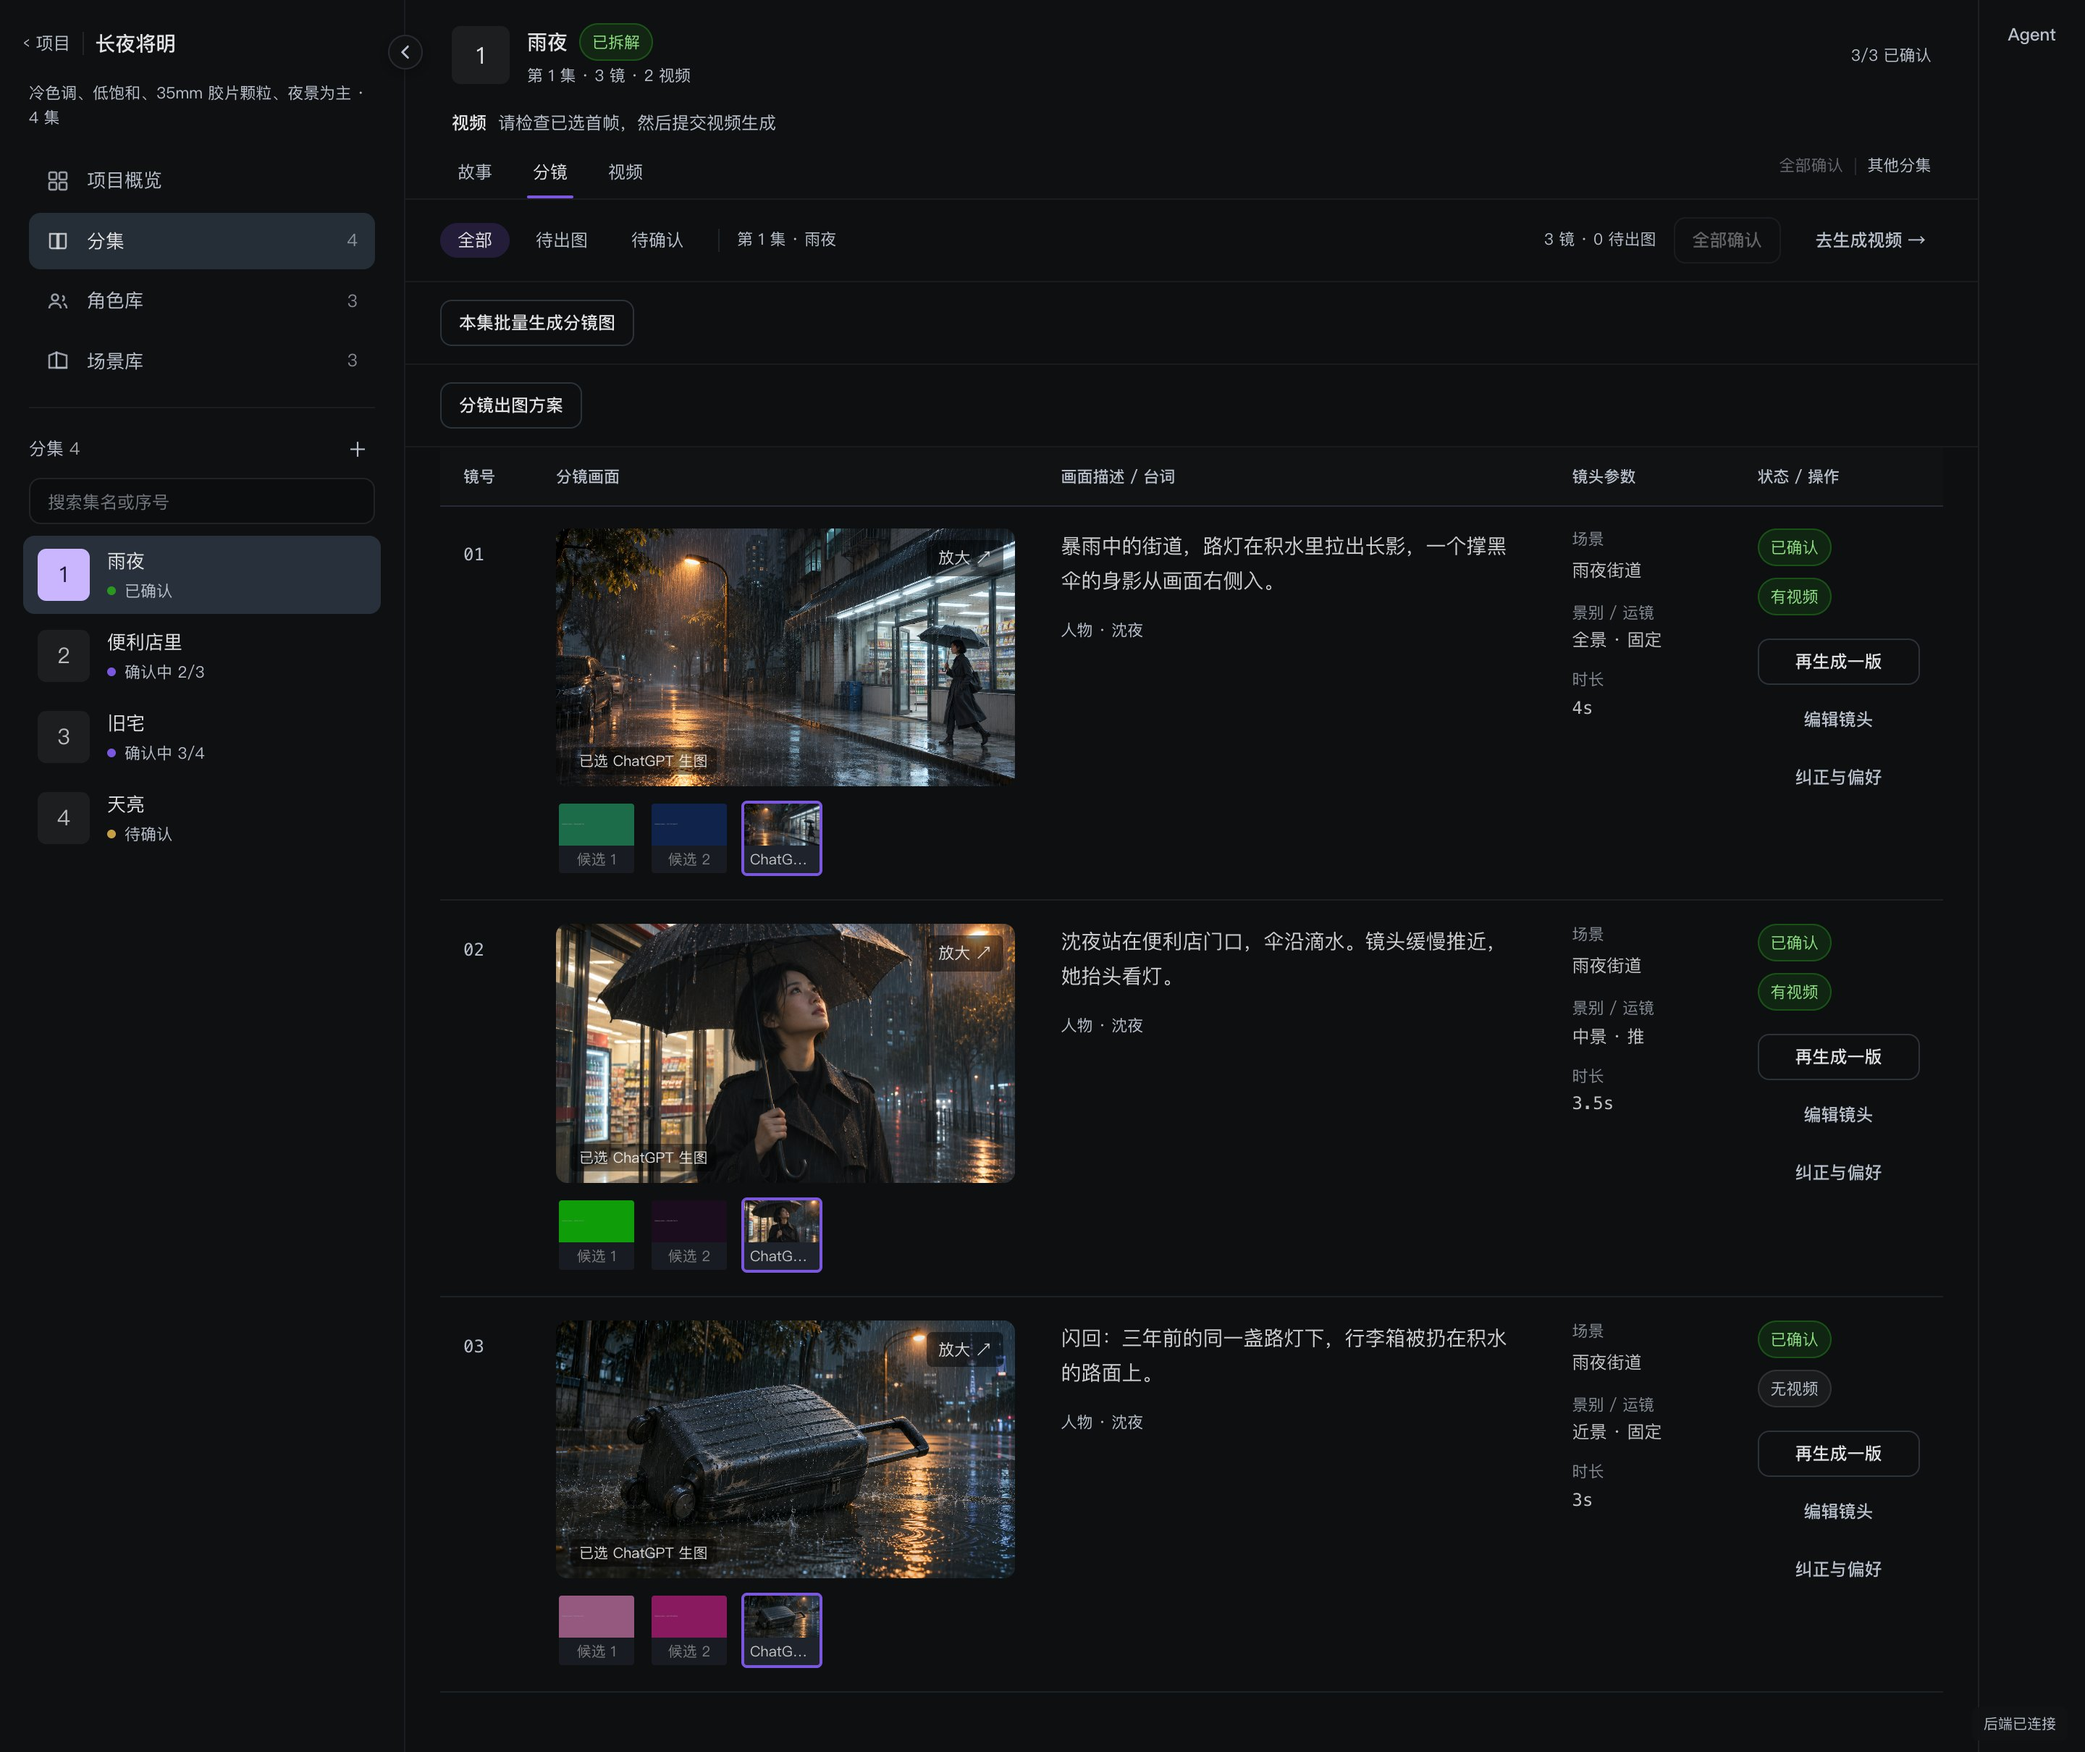
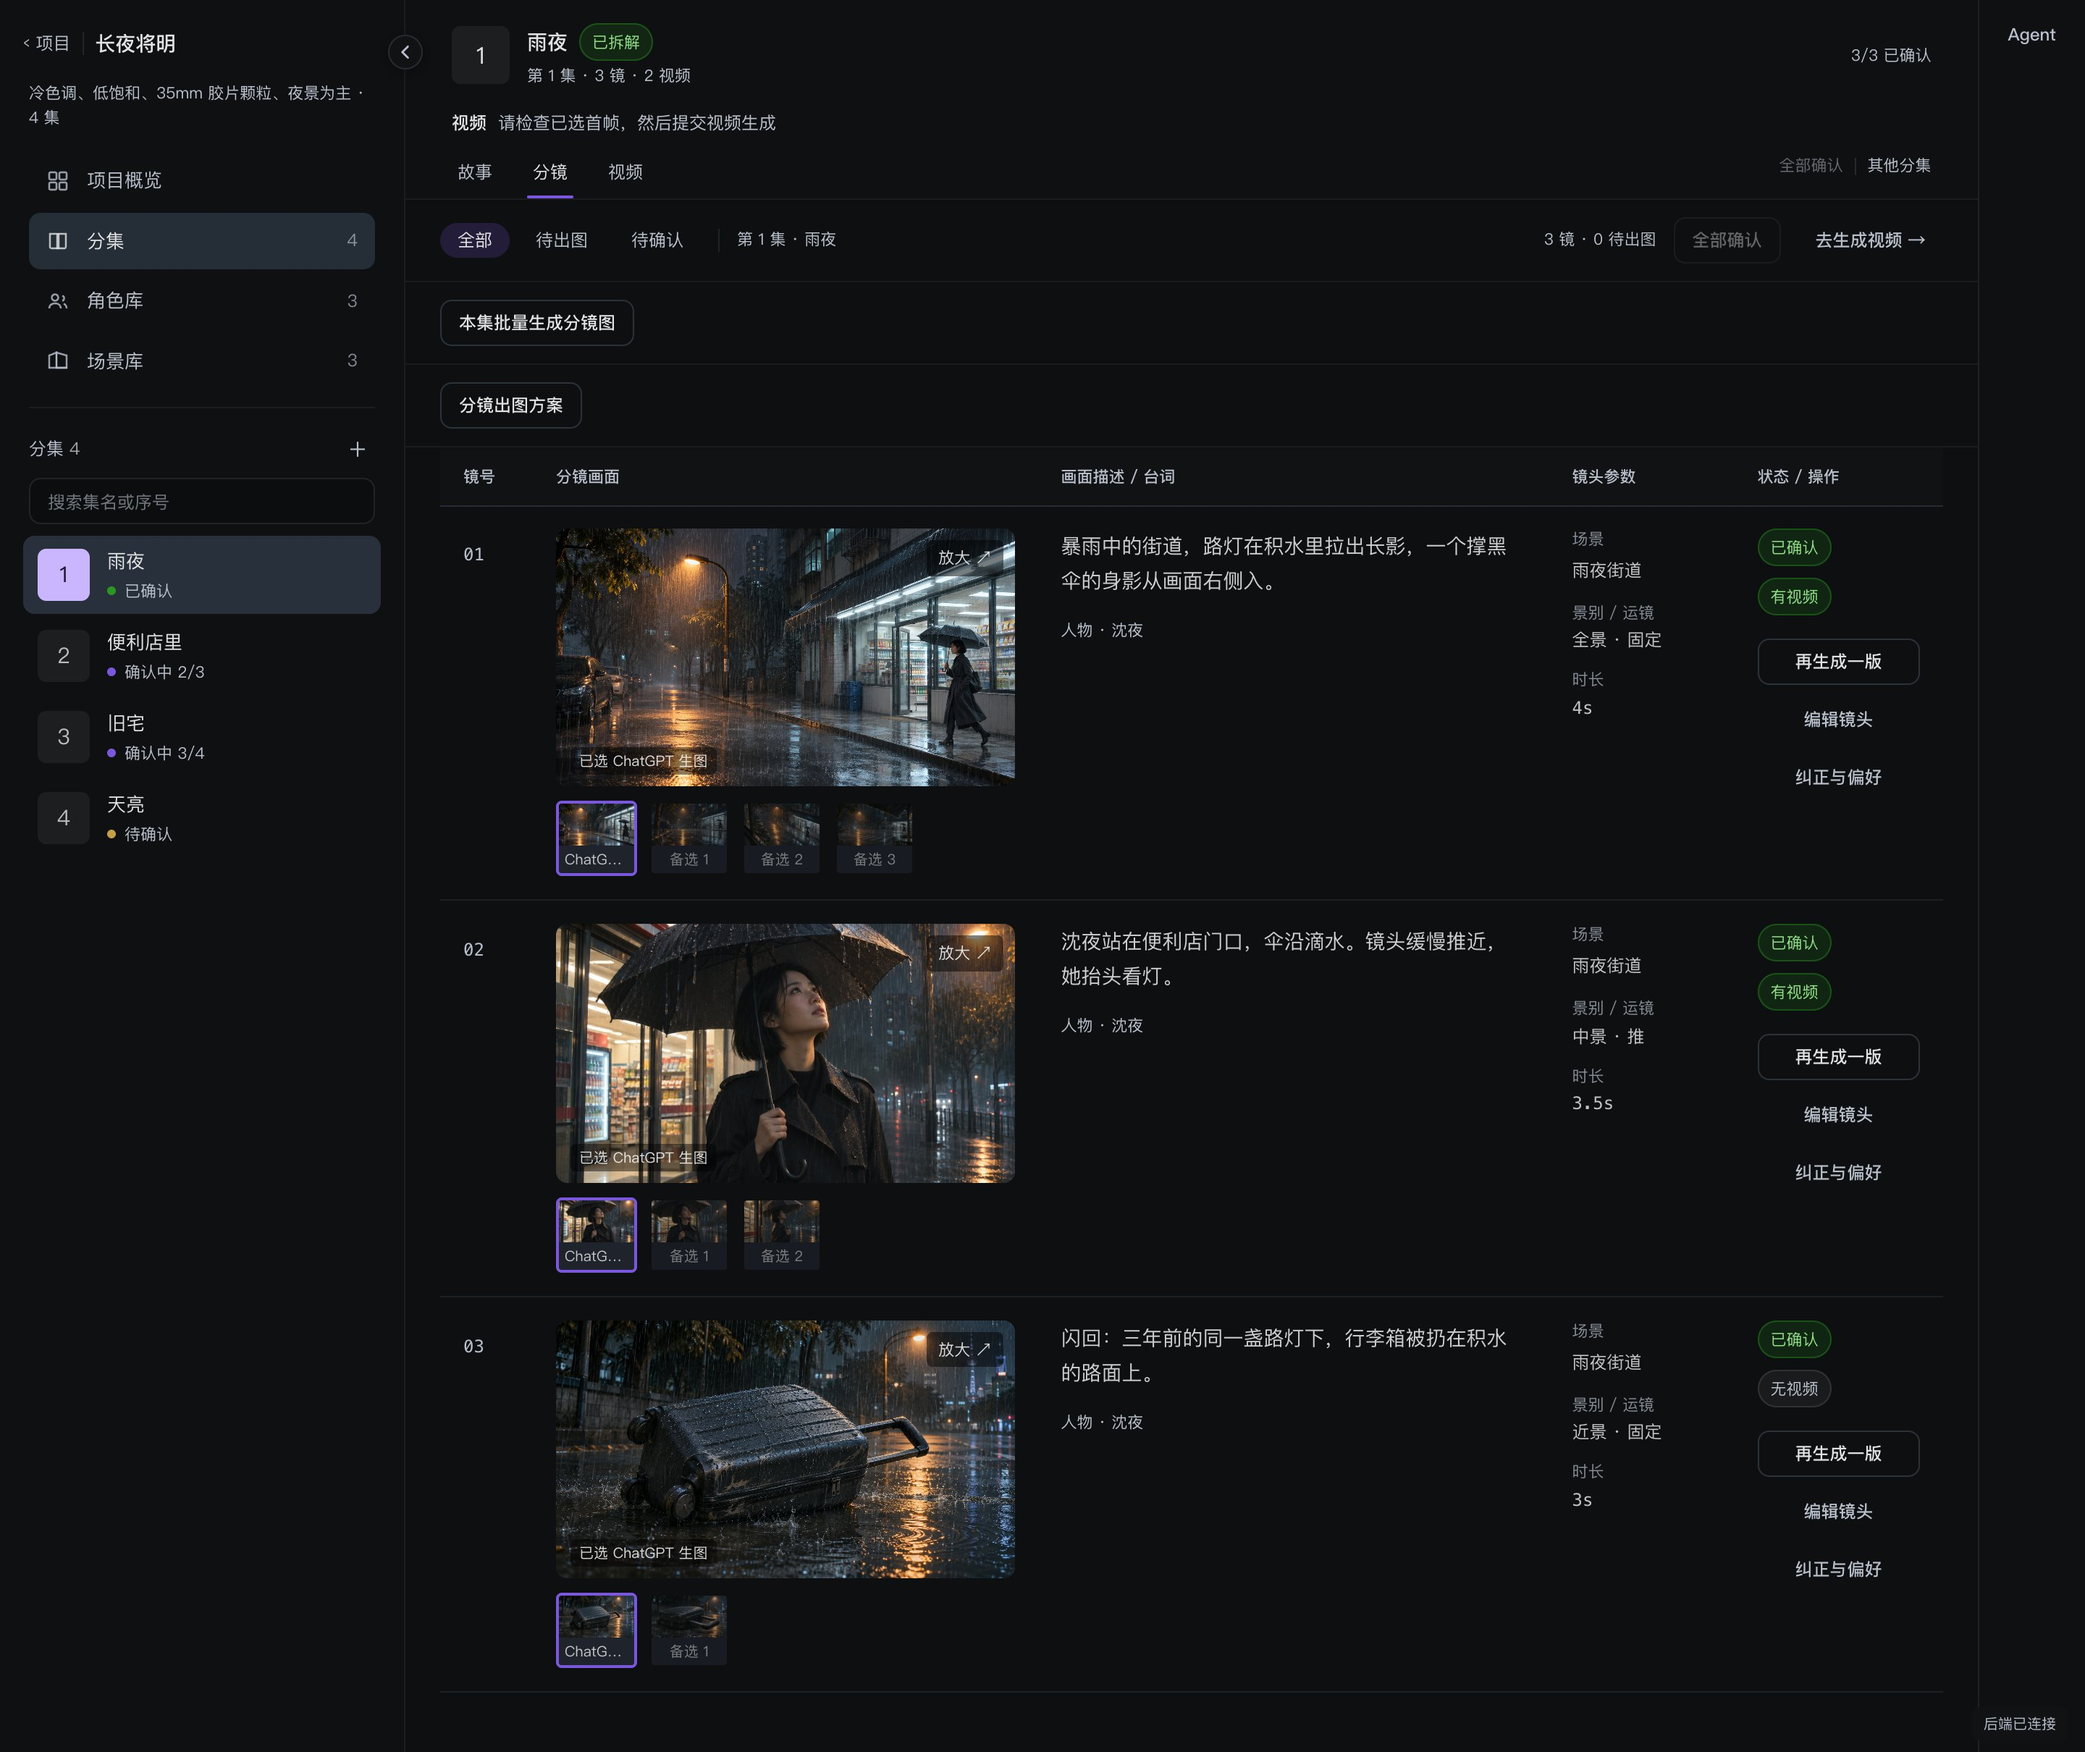
docs: show generated storyboard alternatives

Changed region(s): [[0.25, 0.4339, 0.4375, 0.4959], [0.25, 0.8988, 0.4062, 0.9607], [0.25, 0.6818, 0.4062, 0.7438]]

diff --git a/README.md b/README.md
@@ -26,7 +26,7 @@
 
 ![分镜工作台，左侧为分集，右侧按镜头展示图像候选、描述、参数和确认状态](docs/media/storyboard-demo.jpg)
 
-*《长夜将明》第 1 集「雨夜」的分镜工作台实拍。三张已选分镜由 ChatGPT 生成并导入本地开发库，下方缩略图保留了早期 Mock 候选。*
+*《长夜将明》第 1 集「雨夜」的分镜工作台截图。画面展示导入本地开发库的 ChatGPT 分镜图，三镜分别有 3、2、1 张备选。*
 
 个人项目支持从 Agent 对话里整理剧本、规划分镜和推进已明确授权的操作。对图片给出纠正后，可以比较新旧候选，并在明确满意时将要求保存为指定范围的偏好或可填参的配方。详情见[主／子 Agent](docs/backend-phase12.md)和[图片纠正与创作配方](docs/image-learning.md)。
 
